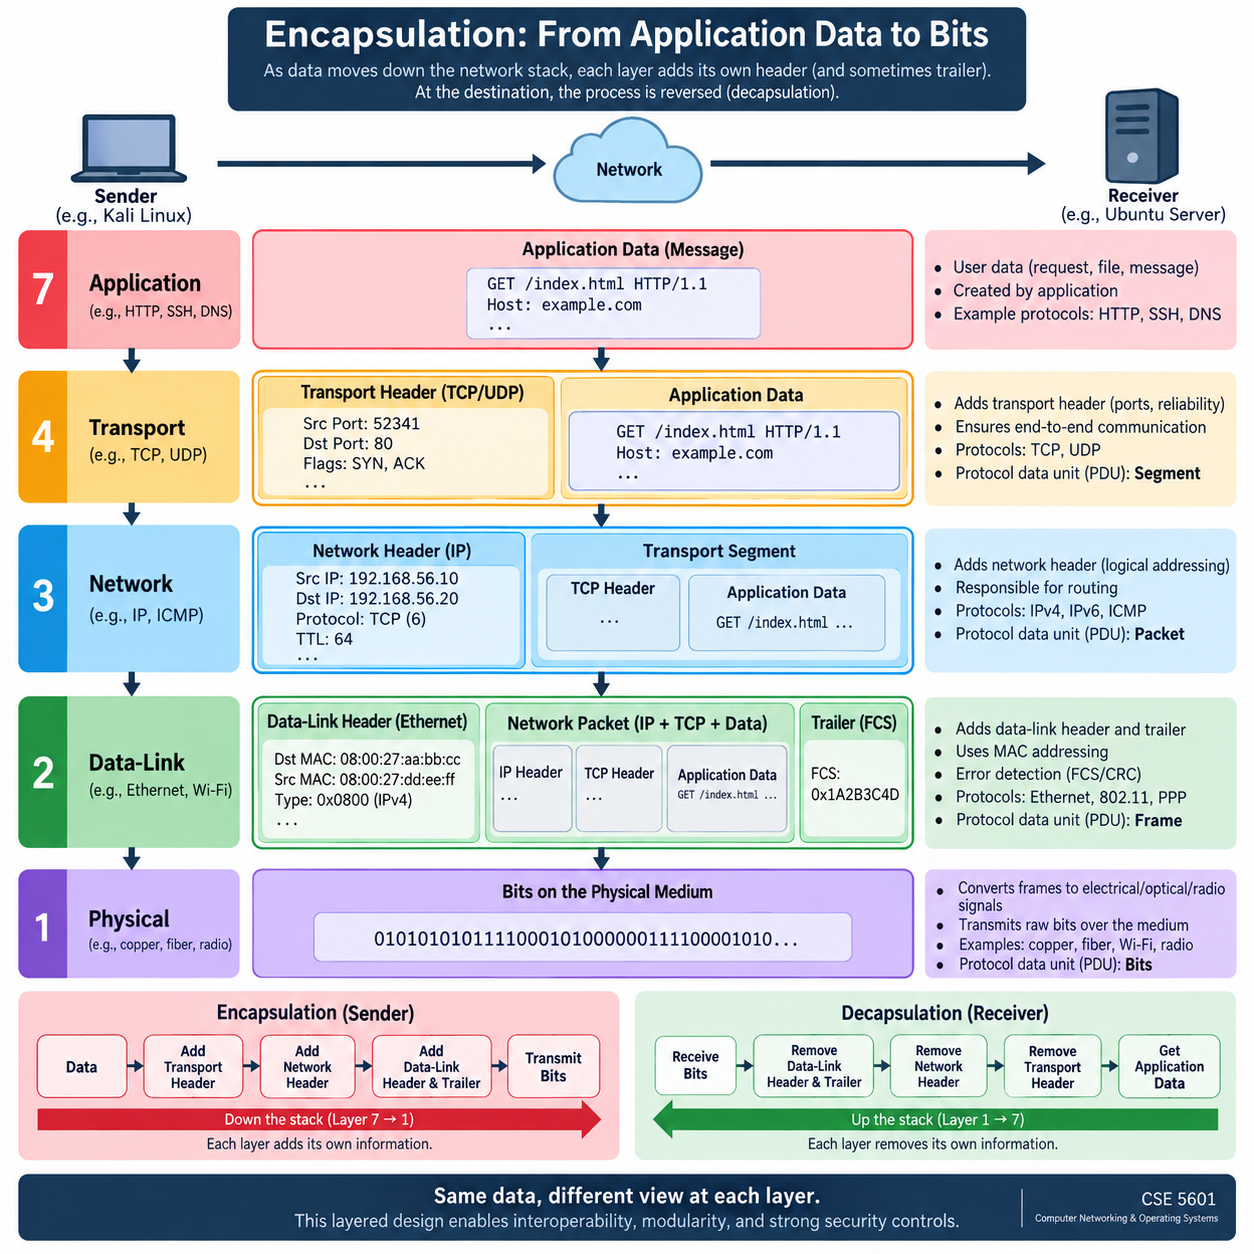
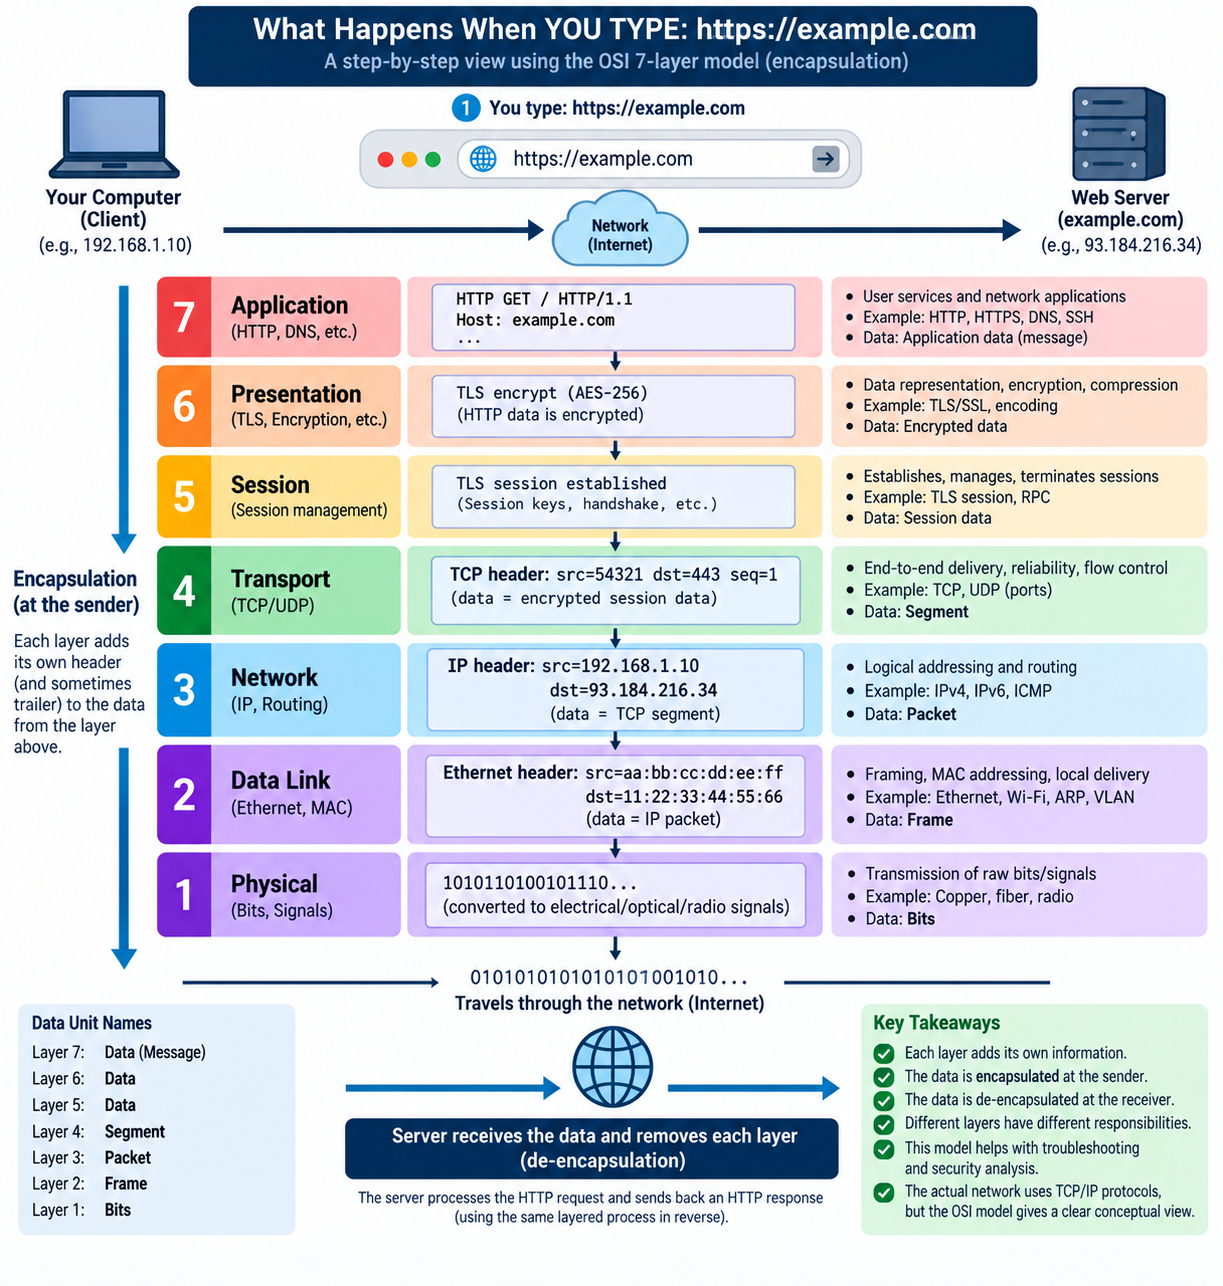
osi and tcp/ip done

diff --git a/01-foundation/02-networking-operating-systems/Readme.md b/01-foundation/02-networking-operating-systems/Readme.md
@@ -60,3 +60,28 @@ Bits
 ```
 
 ![Encapsulation](/img/Encapsulation-osi-tcp.png)
+
+![TCP-IP](/img/tcp-ip.png)
+
+### OSI vs TCP/IP — practical comparison
+
+| Area              | OSI                        | TCP/IP                          |
+| ----------------- | -------------------------- | ------------------------------- |
+| Purpose           | Reference/analytical model | Practical protocol architecture |
+| Layers            | 7                          | 4 or commonly taught as 5       |
+| Origin            | ISO                        | DARPA/Internet architecture     |
+| Application       | Separate                   | Combined upper layers           |
+| Presentation      | Separate                   | Usually part of Application     |
+| Session           | Separate                   | Usually part of Application     |
+| Transport         | Yes                        | Yes                             |
+| Network/Internet  | Yes                        | Yes                             |
+| Data Link         | Yes                        | Yes in 5-layer representation   |
+| Physical          | Yes                        | Yes in 5-layer representation   |
+| Real Internet     | Conceptual framework       | Core protocol architecture      |
+| Troubleshooting   | Excellent                  | Excellent                       |
+| Security analysis | Excellent                  | Excellent                       |
+| Packet analysis   | Useful                     | Very practical                  |
+| Cloud networking  | Conceptual mapping         | Primary operational model       |
+| Linux networking  | Conceptual mapping         | Primary operational model       |
+
+> DARPA stands for Defense Advanced Research Projects Agency.
